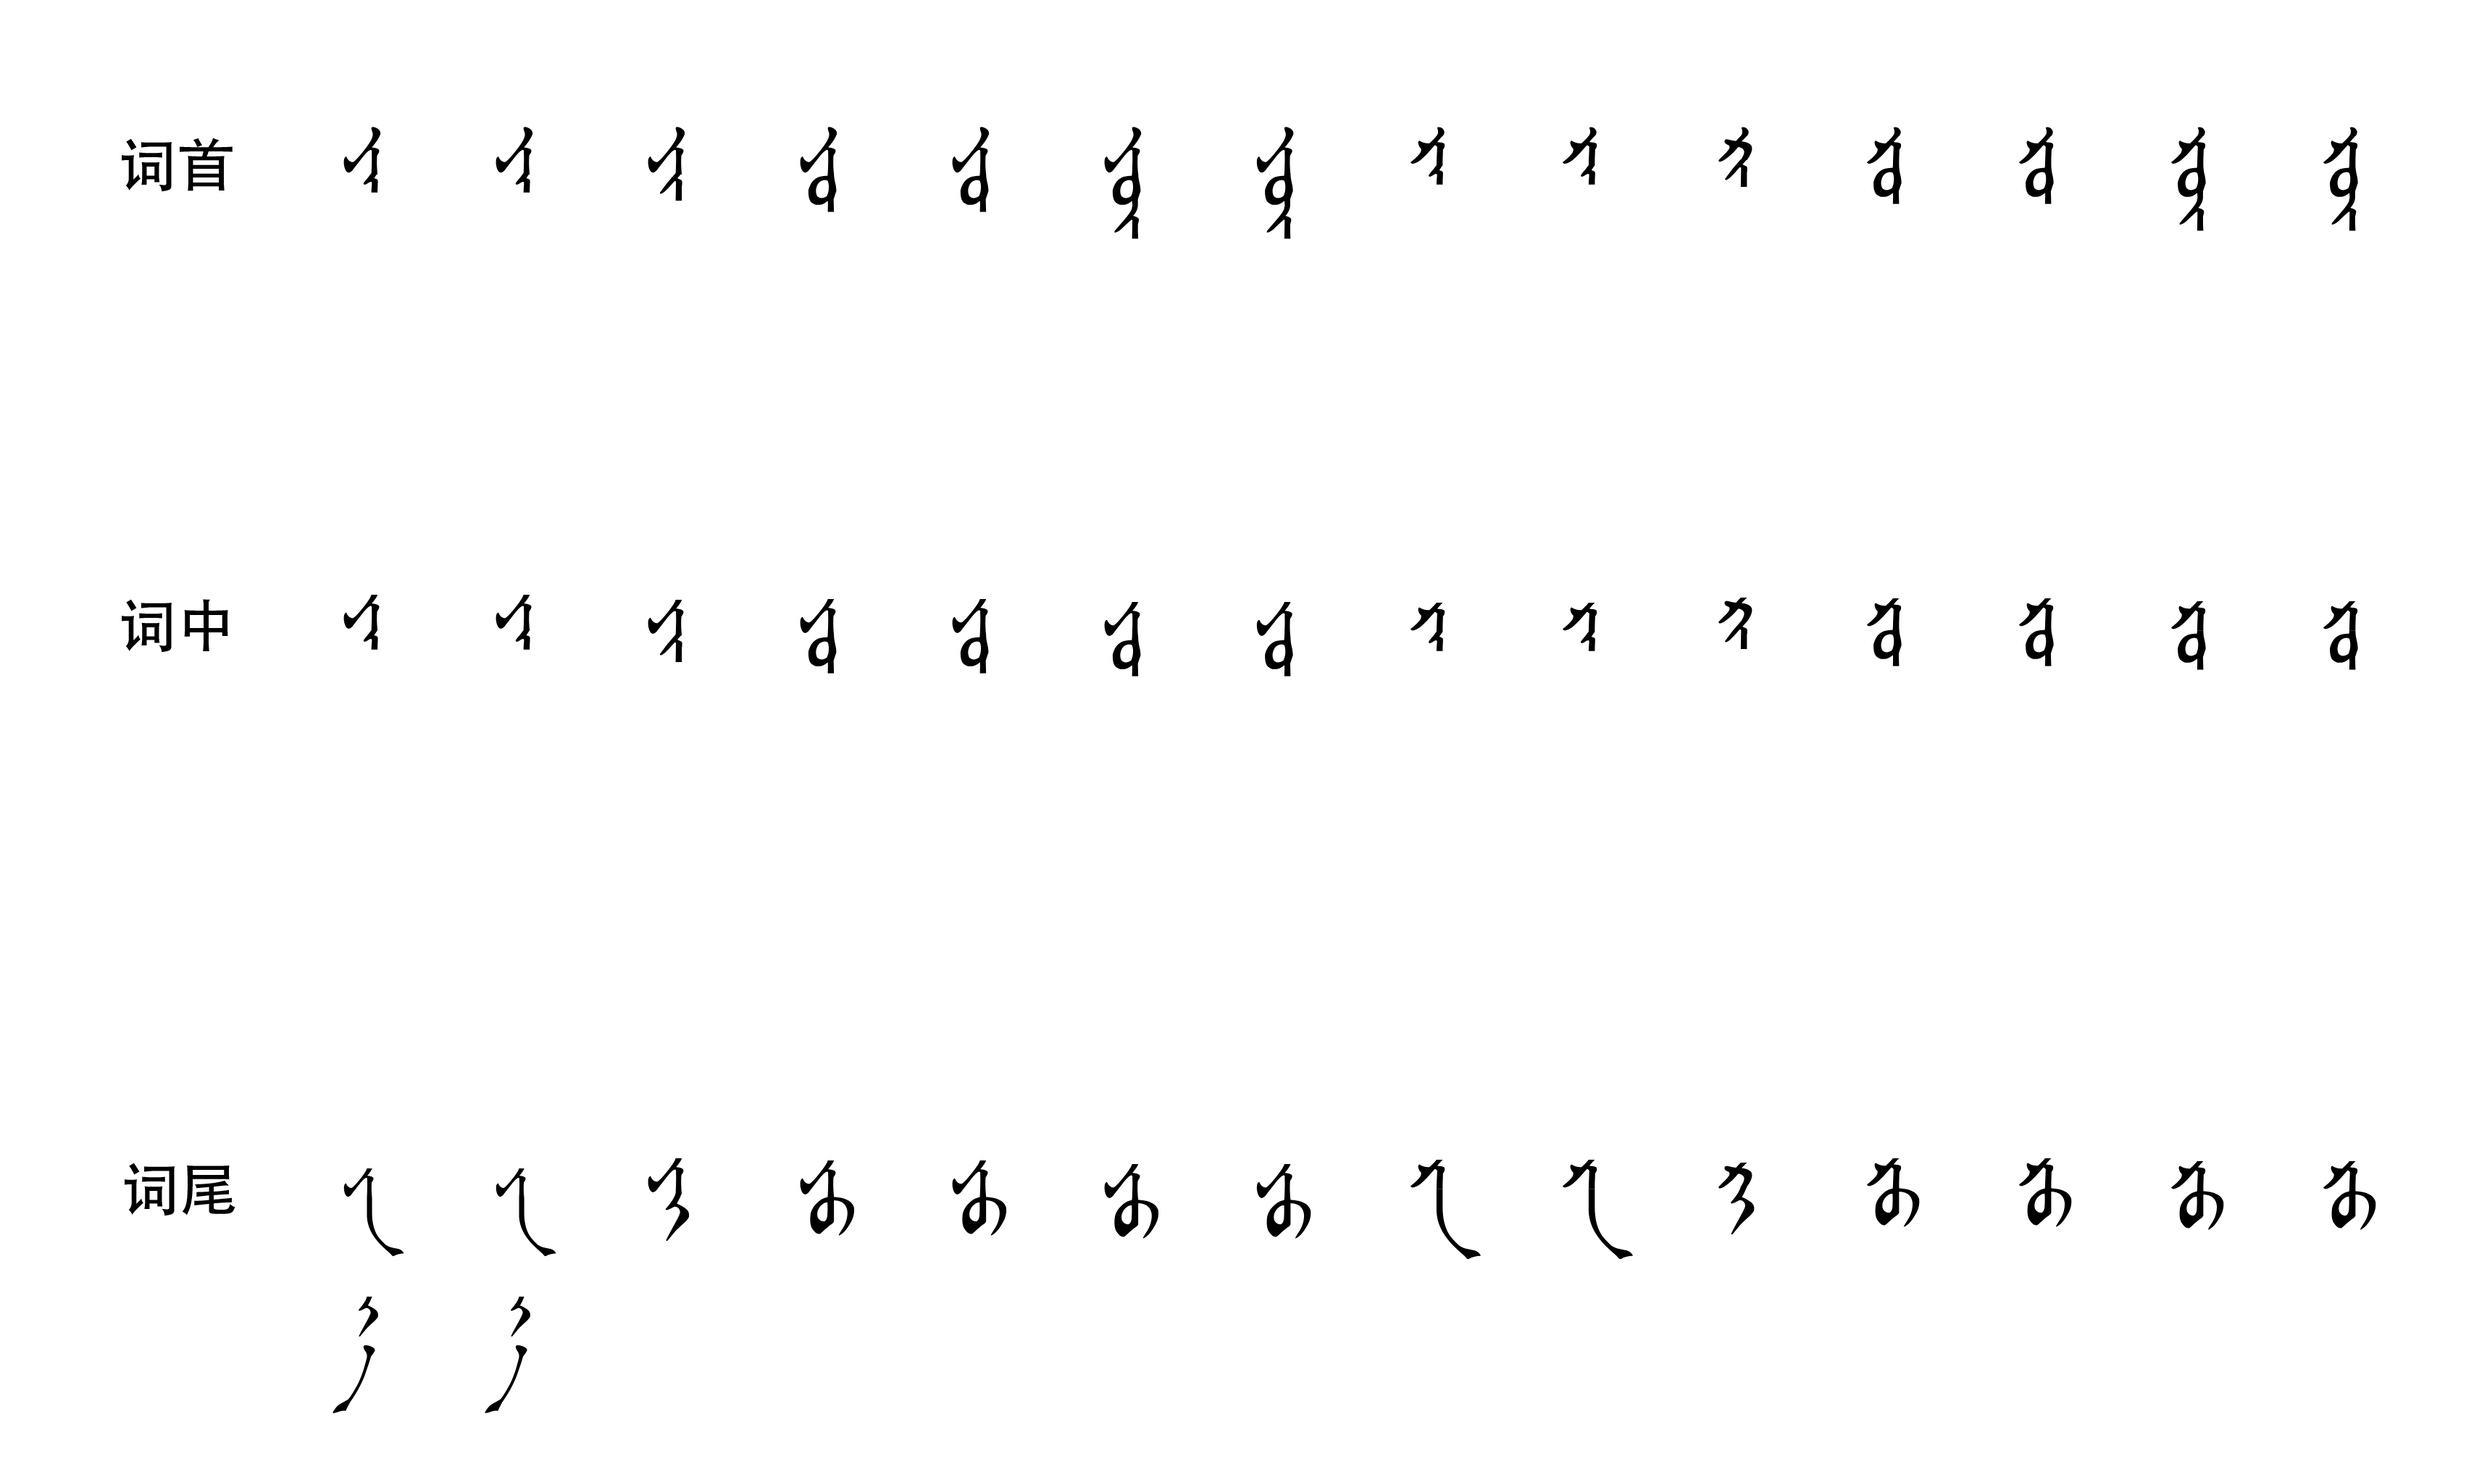
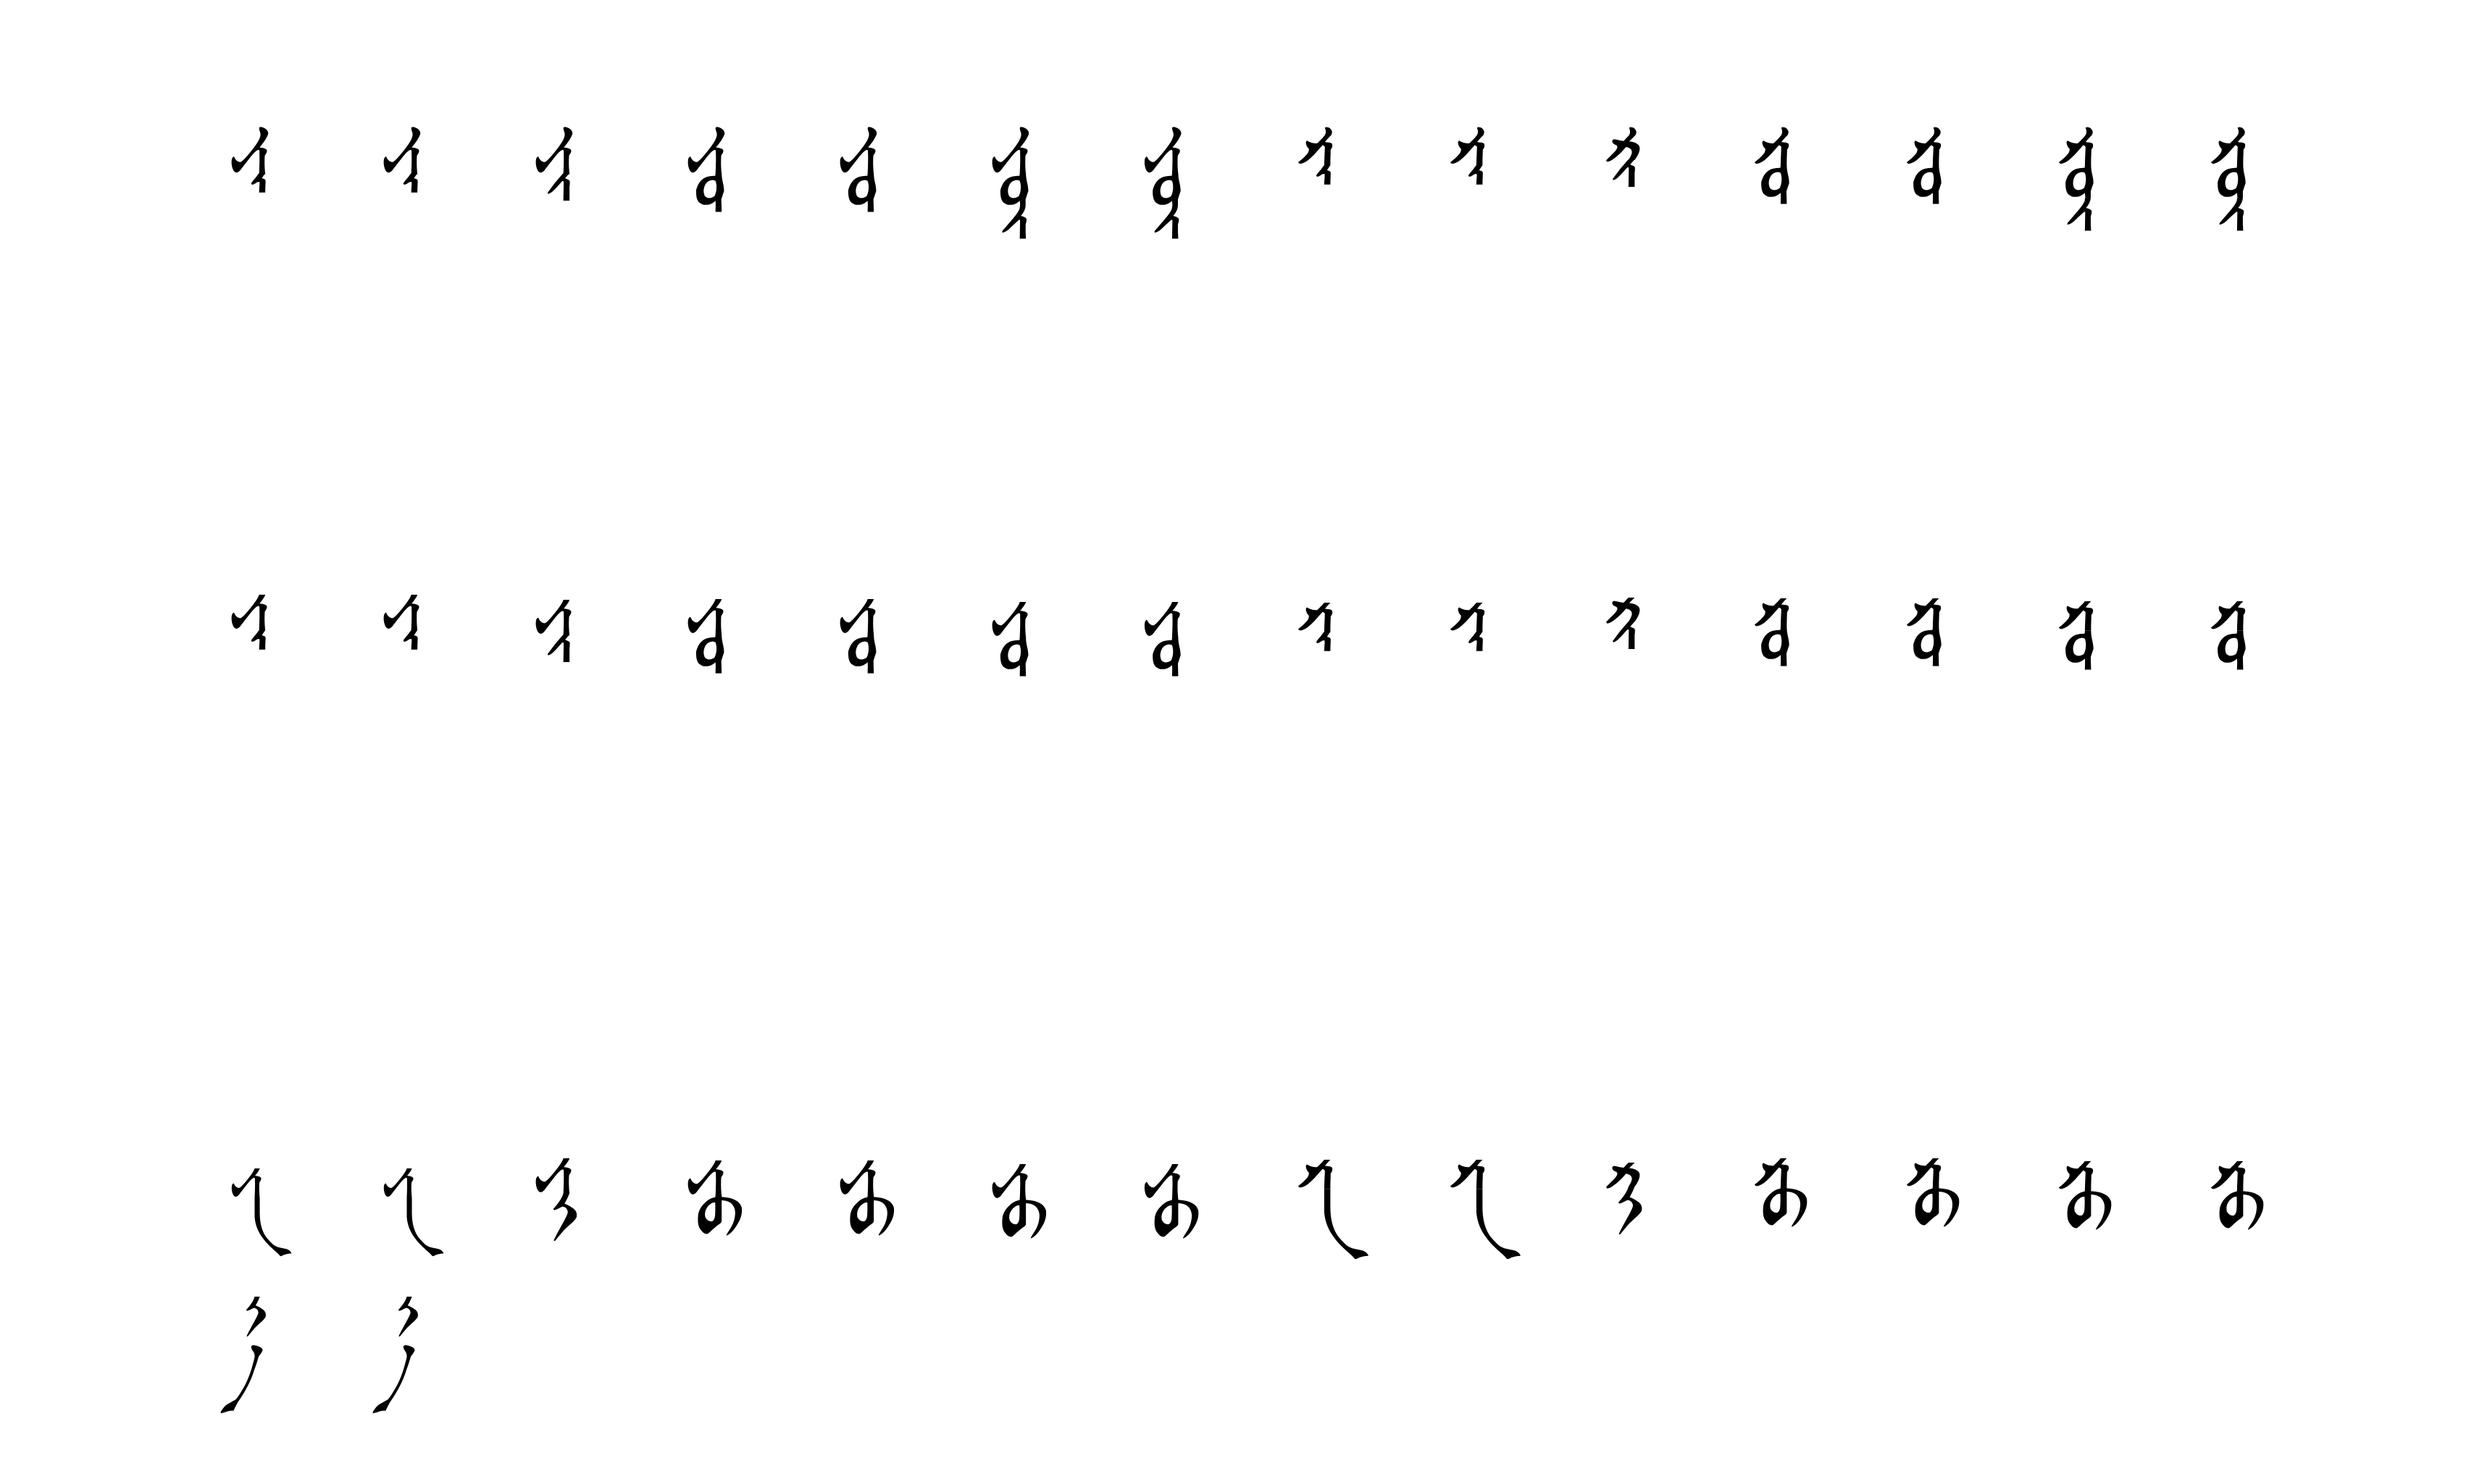
modify alphabet variant images

diff --git a/app/styles/alphabet.css b/app/styles/alphabet.css
@@ -18,7 +18,6 @@
   margin: auto;
   width: 43px;
   height: 75px;
-  background-color: #a0a;
   background: url(../data/alphabet/origin/images/alpha-white.png);
   background-size: 1500px 670px;
   opacity: 0.8;
@@ -248,4 +247,32 @@
 
 .origin-wa, .origin-we {
   background-position: -1378px -47px;
+}
+
+.origin-a-1,.origin-a-2,.origin-a-3,
+.origin-e-1,.origin-e-2,.origin-e-3,
+.origin-i-1,.origin-i-2,.origin-i-3,
+.origin-o-1,.origin-o-2,.origin-o-3,
+.origin-o2-1,.origin-o2-2,.origin-o2-3,
+.origin-u-1,.origin-u-2,.origin-u-3,
+.origin-u2-1,.origin-u2-2,.origin-u2-3,
+.origin-na-1,.origin-na-2,.origin-na-3,
+.origin-ne-1,.origin-ne-2,.origin-ne-3,
+.origin-ni-1,.origin-ni-2,.origin-ni-3,
+.origin-no-1,.origin-no-2,.origin-no-3,
+.origin-no2-1,.origin-no2-2,.origin-no2-3,
+.origin-nu-1,.origin-nu-2,.origin-nu-3,
+.origin-nu2-1,.origin-nu2-2,.origin-nu2-3 {
+  margin: auto;
+  width: 43px;
+  height: 75px;
+  background-color: #a0a;
+  background: url(../data/alphabet/variant/images/a-na-black.png);
+  background-size: 1500px 670px;
+  opacity: 0.8;
+  filter: alpha(opacity=80);
+}
+
+.origin-a-1 {
+  background-position: -230px -47px;
 }

diff --git a/app/scripts/category/alphabet/variant/alphabetvariant.template.html b/app/scripts/category/alphabet/variant/alphabetvariant.template.html
@@ -19,8 +19,8 @@
         <div class="w3-card w3-margin alphabetorigin-view">
           <div class="origin-{{::vowel.name}}"></div>
         </div>
-        <div class="origin-{{::vowel.name}}-1"></div>
-        <div class="origin-{{::vowel.name}}-2"></div>
+        <div class="origin-{{::vowel.name}}-1 w3-border-bottom"></div>
+        <div class="origin-{{::vowel.name}}-2 w3-border-bottom"></div>
         <div class="origin-{{::vowel.name}}-3"></div>
       </div>
     </div>
